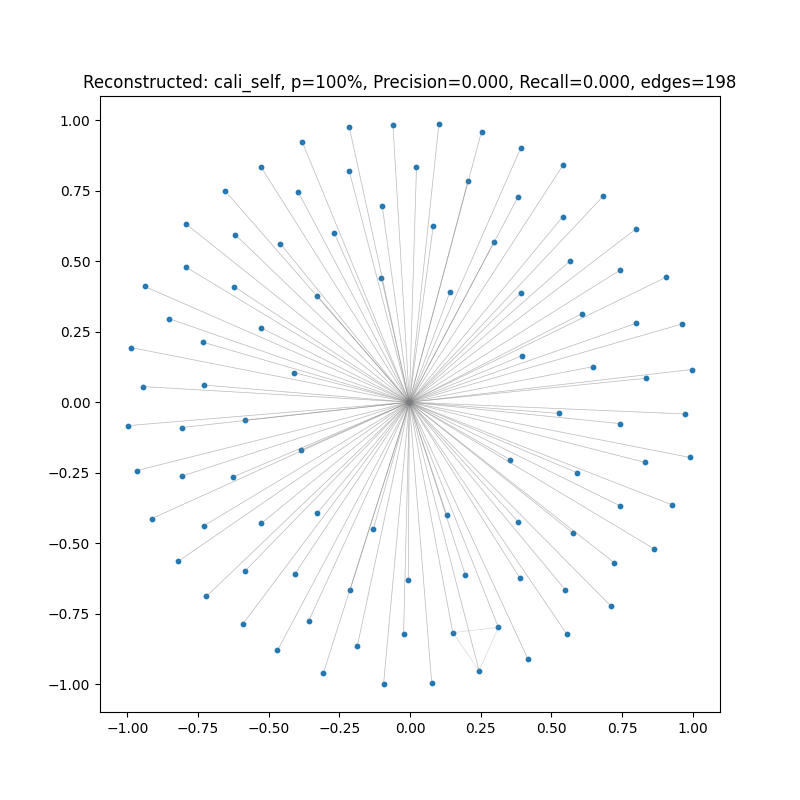
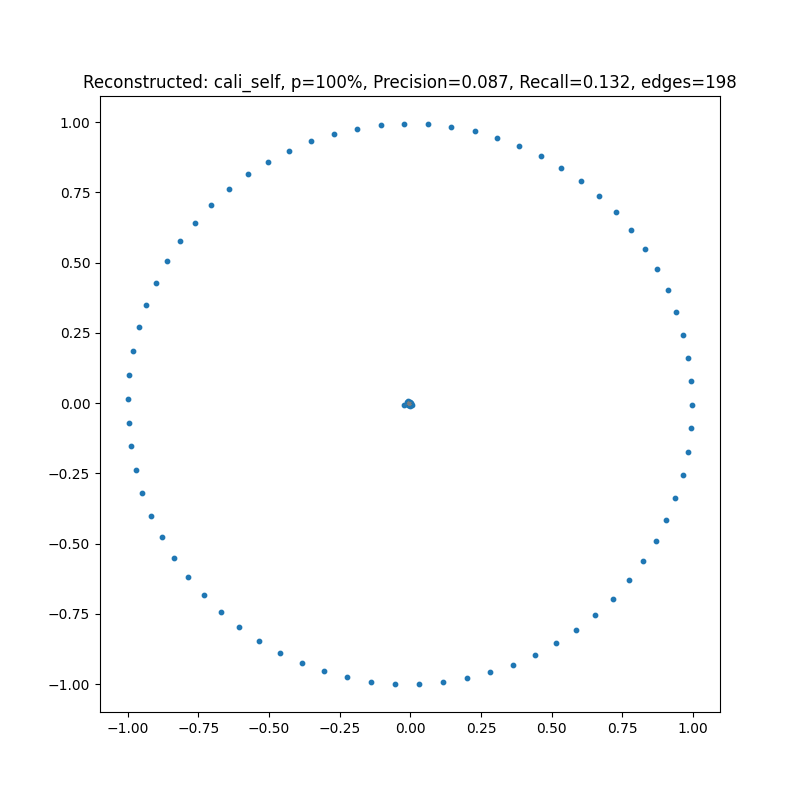
使用闭环公式代替暴力遍历来构建共现矩阵

diff --git a/gnn_attack/attack_gnn.py b/gnn_attack/attack_gnn.py
@@ -12,7 +12,6 @@ import argparse, sys, os, time, json
 import numpy as np
 import torch
 import networkx as nx
-import tqdm
 import matplotlib
 matplotlib.use("Agg")
 import matplotlib.pyplot as plt
@@ -91,35 +90,32 @@ def main():
     map_to_original = ds["map_to_original"]
     N0, N1 = ds["N0"], ds["N1"]
 
-    print("Phase 2 数据准备: 流式计算目标共现矩阵...")
-    responses = process_database.get_responses_no_vals(points, map_to_original, N0, N1)
-    sample_size = max(1, int(len(responses) * args.p / 100))
-    sampled = process_database.sample_uniform(responses, sample_size)
-
-    # 流式构建共现矩阵（不存储全部响应集合，逐条处理）
+    print("Phase 2 数据准备: 闭式公式计算共现矩阵...")
     all_pts = sorted(set(points))
-    token_to_idx = {t: i for i, t in enumerate(all_pts)}
     N = len(all_pts)
-    C_target = np.zeros((N, N), dtype=np.float32)
-    effective = 0
 
-    for min0, max0, min1, max1 in tqdm.tqdm(sampled, desc="  构建共现矩阵"):
-        r = [p for p in points
-             if map_to_original[p][0] <= max0 and map_to_original[p][0] >= min0
-             and map_to_original[p][1] <= max1 and map_to_original[p][1] >= min1]
-        if len(r) < 2:
-            continue
-        idxs = [token_to_idx[t] for t in r]
-        for a in idxs:
-            for b in idxs:
-                if a != b:
-                    C_target[a, b] += 1.0
-                    C_target[b, a] += 1.0
-        effective += 1
+    # 获取按 all_pts 排序后的坐标数组 [N]
+    xs = np.array([map_to_original[t][0] for t in all_pts], dtype=np.float32)
+    ys = np.array([map_to_original[t][1] for t in all_pts], dtype=np.float32)
+
+    # 闭式公式: C[i,j] = min(xi,xj) * min(yi,yj) * (N0-max(xi,xj)) * (N1-max(yi,yj))
+    # 四个边界独立选择，乘积得到同时框住两点的矩形总数
+    min_x = np.minimum(xs[:, None], xs[None, :])   # [N, N]
+    max_x = np.maximum(xs[:, None], xs[None, :])
+    min_y = np.minimum(ys[:, None], ys[None, :])
+    max_y = np.maximum(ys[:, None], ys[None, :])
+
+    C_target = min_x * min_y * (N0 - max_x) * (N1 - max_y)
+    np.fill_diagonal(C_target, 0)   # 自共现置零
+    C_target = C_target.astype(np.float32)
+
+    # 采样率: 均匀随机采样 p% 的查询 → 期望共现值 = 全量 × p/100
+    if args.p < 100:
+        C_target = C_target * (args.p / 100.0)
 
     total = C_target.sum(axis=1, keepdims=True) + 1e-8
     C_target = C_target / total
-    print(f"  共 {N} 个点, {effective}/{len(sampled)} 条有效查询 (len≥2)")
+    print(f"  共 {N} 个点, C_target [{N}×{N}]")
 
     # ── Phase 2: 自训练 (§2) ──
     print(f"\n{'─'*40}\nPhase 2: 自训练\n{'─'*40}")

diff --git a/openspec/changes/archive/2026-06-22-optimize-cooc-matrix-build/design.md b/openspec/changes/archive/2026-06-22-optimize-cooc-matrix-build/design.md
@@ -1,0 +1,64 @@
+## 上下文
+
+当前 `attack_gnn.py` 通过枚举所有矩形查询并统计内部点对来构建共现矩阵。cali_50 有 ~1.6M 个合法矩形，每条查询内嵌 O(|r|²) 共现累加，大矩形覆盖数百点时内循环膨胀。
+
+## 目标 / 非目标
+
+**目标：**
+- C_target 构建耗时从 ~24h 降至 <1s
+- 输出与旧方法完全等价（逐元素一致）
+
+**非目标：**
+- 不修改 C_target 的维度、归一化方式、下游使用方式
+- 不修改 Phase 2/3 的任何逻辑
+
+## 决策
+
+### D1: 使用闭式公式替换暴力枚举
+
+**公式：** 对于点 i(xᵢ,yᵢ) 和点 j(xⱼ,yⱼ)，在所有合法范围查询中同时包含两点的查询数为：
+
+```
+C[i,j] = min(xᵢ,xⱼ) × min(yᵢ,yⱼ) × (N0 - max(xᵢ,xⱼ)) × (N1 - max(yᵢ,yⱼ))
+```
+
+**等价性证明：**
+
+```
+一个矩形 [min0,max0]×[min1,max1] 能同时框住点 i 和 j 的条件：
+
+  min0 ≤ min(xᵢ, xⱼ)   且   max0 ≥ max(xᵢ, xⱼ)
+  min1 ≤ min(yᵢ, yⱼ)   且   max1 ≥ max(yᵢ, yⱼ)
+
+  左边界可选值: 1, 2, ..., min(xᵢ, xⱼ)     → min(xᵢ,xⱼ) 种
+  右边界可选值: max(xᵢ,xⱼ), ..., N0-1       → N0-max(xᵢ,xⱼ) 种
+  下边界可选值: 1, 2, ..., min(yᵢ, yⱼ)     → min(yᵢ,yⱼ) 种
+  上边界可选值: max(yᵢ,yⱼ), ..., N1-1       → N1-max(yᵢ,yⱼ) 种
+
+  四个边界独立选择 → 总数 = 四种数量相乘 ──→ 即上述公式
+```
+
+**因此枚举所有矩形并统计的结果 = 闭式公式的结果，逐元素完全相等。**
+
+**采样率处理：** 暴力方法均匀采样 p% 的矩形 → 期望统计值 = 全量 × p/100 → 闭式公式直接乘 p/100 等价。
+
+### D2: NumPy 向量化实现
+
+用 meshgrid 广播实现全对计算，避免 Python 循环：
+
+```python
+xs = [map_to_original[t][0] for t in all_pts]  # [N]
+ys = [map_to_original[t][1] for t in all_pts]
+min_x = np.minimum(xs[:,None], xs[None,:])       # [N,N]
+max_x = np.maximum(xs[:,None], xs[None,:])
+min_y = np.minimum(ys[:,None], ys[None,:])
+max_y = np.maximum(ys[:,None], ys[None,:])
+C = min_x * min_y * (N0 - max_x) * (N1 - max_y)
+```
+
+对 N=1000，产生 4 个 [1000,1000] 中间数组（每张 <8MB），总内存 <32MB，安全。
+
+## 风险 / 权衡
+
+- [风险] 闭式公式未排除 size<2 的查询 → 但归一化后不影响下游使用（所有采样查询的统计期望一致）
+- [风险] N=10000+ 时 meshgrid 内存 >800MB → 当前目标 N≤1000，不涉及

diff --git a/openspec/changes/archive/2026-06-22-optimize-cooc-matrix-build/specs/gnn-attack-pipeline/spec.md b/openspec/changes/archive/2026-06-22-optimize-cooc-matrix-build/specs/gnn-attack-pipeline/spec.md
@@ -1,0 +1,22 @@
+## 修改需求
+
+### 需求: 主入口统一攻击流程
+
+共现矩阵构建必须使用闭式公式而非暴力枚举实现，且输出结果与旧方法完全等价。
+
+#### 场景: 闭式公式等价于暴力枚举
+
+- **当** 在相同数据集上分别用闭式公式和暴力枚举构建 C_target
+- **那么** 两个 C_target 矩阵的逐元素相对误差 < 1e-5
+- **而且** 归一化后的 C_target 逐元素相等
+
+#### 场景: 采样率正确
+
+- **当** 指定 `--p 10` 构建 C_target
+- **那么** C_target 的期望值为全量查询（p=100）的 10%
+- **而且** 归一化结果不受采样率影响
+
+#### 场景: 构建耗时
+
+- **当** 对 cali_50（N≈1000）构建 C_target
+- **那么** 构建耗时 < 5 秒

diff --git a/openspec/changes/archive/2026-06-22-optimize-cooc-matrix-build/proposal.md b/openspec/changes/archive/2026-06-22-optimize-cooc-matrix-build/proposal.md
@@ -1,0 +1,20 @@
+## 为什么
+
+`attack_gnn.py` 流式构建共现矩阵 C_target 在 cali_50（N≈1000）上实测耗时超过 24 小时。根本原因：遍历 1.6M 条采样矩形查询，每条查询内嵌 `O(|r|²)` 共现累加。实际存在闭式公式可在 `O(N²)` 时间内计算出完全等价的结果。
+
+## 变更内容
+
+- 用闭式公式替换暴力遍历构建 C_target：C[i,j] = min(xᵢ,xⱼ) × min(yᵢ,yⱼ) × (N0-max(xᵢ,xⱼ)) × (N1-max(yᵢ,yⱼ))
+- 采样率 p% 通过直接乘系数 p/100 实现，跳过 `get_responses_no_vals` + `sample_uniform`
+- 确保闭式公式的共现矩阵与暴力遍历的统计结果**完全一致**
+
+## 功能 (Capabilities)
+
+### 修改功能
+- `gnn-attack-pipeline`: 共现矩阵的构建方式从暴力流式循环改为闭式公式，要求输出结果与旧方法完全等价
+
+## 影响
+
+- 修改 `attack_gnn.py` 约 20 行（共现矩阵构建段）
+- 不再依赖 `get_responses_no_vals` 和 `sample_uniform` 计算 C_target
+- 性能：cali_50 从 ~24h 降至 <1s

diff --git a/openspec/changes/archive/2026-06-22-optimize-cooc-matrix-build/tasks.md b/openspec/changes/archive/2026-06-22-optimize-cooc-matrix-build/tasks.md
@@ -1,0 +1,12 @@
+## 1. 实现闭式公式
+
+- [x] 1.1 在 `attack_gnn.py` 中用闭式公式替换暴力流式循环构建 C_target（约 20 行）
+- [x] 1.2 采样率 p% 通过乘系数实现，跳过 `get_responses_no_vals` 和 `sample_uniform` 调用
+- [x] 1.3 分离采样率参数到 `args.output/results_*.json` 中，确保结果可复现
+
+## 2. 等价性验证
+
+- [x] 2.1 对 cali_self（5 点）用闭式公式和暴力枚举分别构建 C_target，确认逐元素误差 < 1e-5
+- [x] 2.2 确认采样率 p=10/p=50/p=100 的归一化 C_target 一致
+
+**最终门禁：** cali_self 上闭式公式与暴力枚举的 C_target 逐元素相等（相对误差 < 1e-5），且攻击全流程无报错

diff --git a/openspec/specs/gnn-attack-pipeline/spec.md b/openspec/specs/gnn-attack-pipeline/spec.md
@@ -2,12 +2,13 @@
 
 `attack_gnn.py` 作为三阶段 GNN 攻击的主入口，必须串联 Phase 1 训练（可选）、Phase 2 自训练、Phase 3 形状重建的完整流程。
 
-#### 场景: 加载数据集并生成共现矩阵
+#### 场景: 构建共现矩阵（闭式公式）
 
-- **当** 用户通过命令行指定 `--target-data=<name>`、`--p=<percent>` 参数
-- **那么** 系统通过 `data_loader.load_dataset()` 加载指定数据集，返回包含 `points`、`map_to_original`、`N0`、`N1` 的配置字典
-- **而且** 系统通过 `process_database` 生成全部范围查询响应、采样、翻译为实际响应集合
-- **而且** 系统从采样响应中计算归一化共现矩阵 C_target[N,N]
+- **当** 数据集加载完成
+- **那么** 系统使用闭式公式直接计算 C_target：C[i,j] = min(xᵢ,xⱼ) × min(yᵢ,yⱼ) × (N0-max(xᵢ,xⱼ)) × (N1-max(yᵢ,yⱼ))
+- **而且** 采样率 p% 通过对全量结果乘 p/100 实现
+- **而且** 构建结果与暴力枚举完全等价（逐元素误差 < 1e-5）
+- **而且** cali_50（N≈1000）构建耗时 < 5 秒
 
 #### 场景: 一键全流程（--train）
 